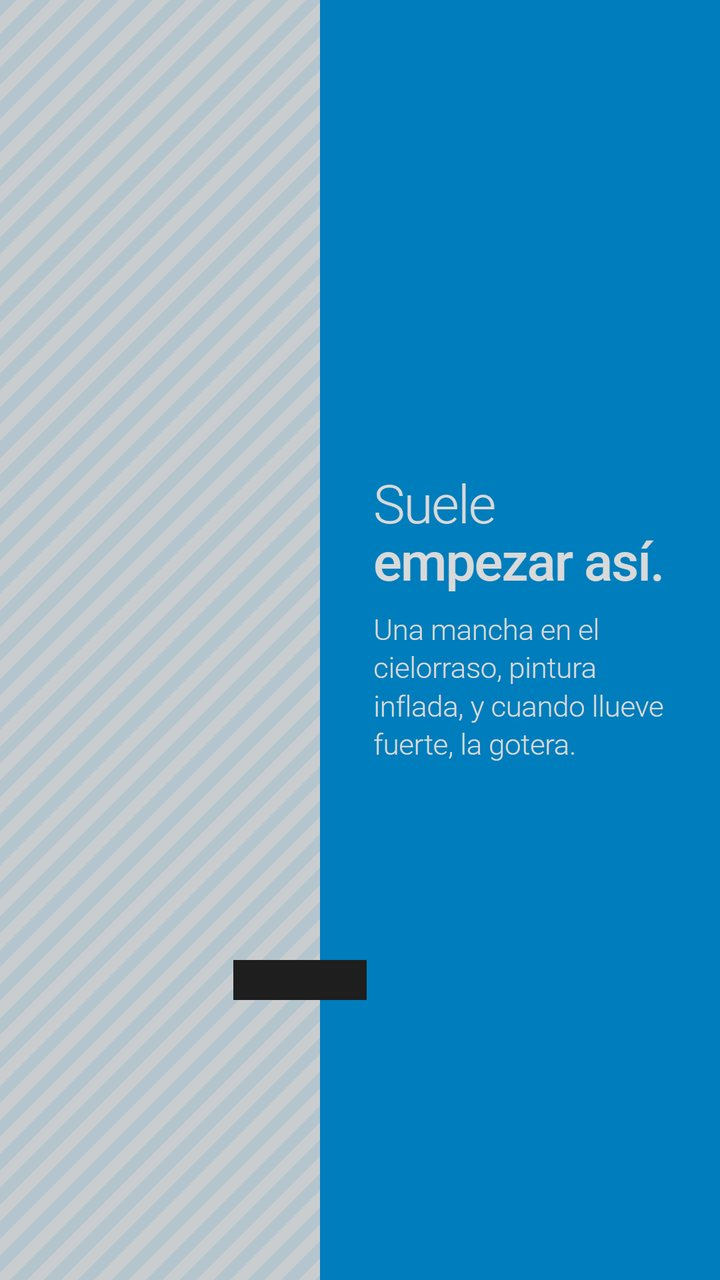
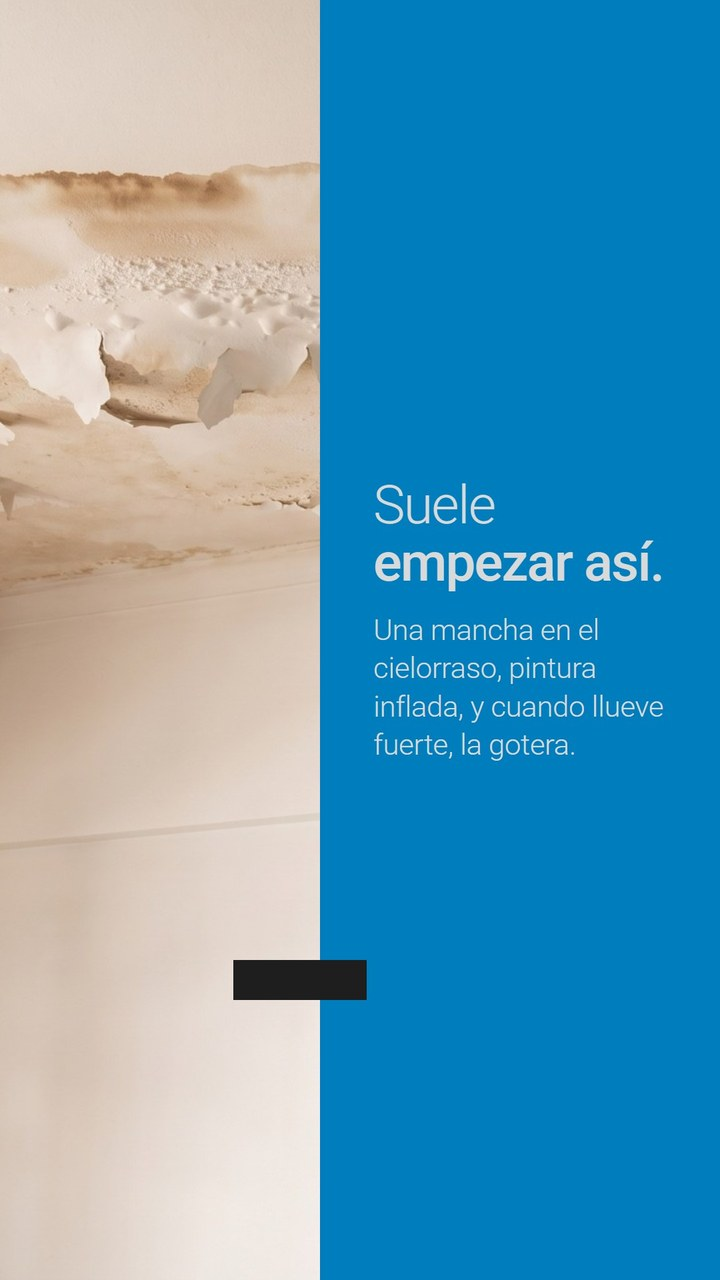
Piezas nuevas (P5, CP-08/09, CT-08b, D3-03n/04n), imágenes actualizadas y guiones.js al día

diff --git a/guiones.js b/guiones.js
@@ -294,7 +294,7 @@ window.GUIONES = {
           cta: "Escribinos por WhatsApp."
         },
         {
-          v: "B", tipo: "Recuperar en vez de cambiar",
+          v: "B", etq: "publicidad", tipo: "Recuperar en vez de cambiar",
           titulo: "No cambies el techo de chapa: recuperalo",
           hooks: [
             ["Transformación", "Antes. Después. Sin cambiar las chapas."],
@@ -510,7 +510,7 @@ window.GUIONES.pauta = {
   resumen: "Una campaña, dos conjuntos, cuatro anuncios. El paso a paso está en «Qué subir y cuándo»",
   donde: "En Instagram y Facebook, con anuncios que abren una conversación de WhatsApp: el que toca el anuncio escribe directo, no hace falta página web. Es una sola campaña de mensajes con dos conjuntos, cada uno con su zona y su presupuesto. Los anuncios se arman en el Administrador de anuncios con «usar publicación existente», no con el botón «Promocionar» de Instagram.",
   reparto: [
-    ["Particulares · el corredor", "$100.000", "Campana, Zárate, Lima, Baradero, San Pedro, Gobernador Castro, Ramallo, San Nicolás, Arrecifes, Pergamino, Salto, Chacabuco, San Antonio de Areco, Luján, Mercedes, Villa Constitución, Empalme, Arroyo Seco y Rosario: donde llega la cuadrilla. Capital queda afuera: se llevaba casi todo el presupuesto y ahí la gotera la resuelve el consorcio, que ya entra por empresas. Presupuesto total, del 29/9 al 30/10, de 8 a 24. Semana 1: V1, el video del Niño. Desde la semana 2 se suma P1."],
+    ["Particulares · el corredor", "$100.000", "Campana, Zárate, Lima, Baradero, San Pedro, Gobernador Castro, Ramallo, San Nicolás, Arrecifes, Pergamino, Salto, Chacabuco, San Antonio de Areco, Luján, Mercedes, Villa Constitución, Empalme, Arroyo Seco y Rosario: donde llega la cuadrilla. Capital queda afuera: se llevaba casi todo el presupuesto y ahí la gotera la resuelve el consorcio, que ya entra por empresas. Presupuesto total, del 30/9 al 30/10, de 8 a 24. Semana 1: V1, el video del Niño. Desde la semana 2 se suma P1."],
     ["Empresas · todo el país", "$50.000", "Presupuesto total, mismas fechas y horario. Semana 1: E1, los galpones con el Niño. Desde la semana 2 se suma V2, el video de la chapa. El botón «Es para mi casa» separa a los particulares de lejos."],
     ["Reserva", "$50.000", "Sin asignar. Se decide el día 14, con lo que haya traído cada conjunto."]
   ],
@@ -593,6 +593,46 @@ window.GUIONES.subir = {
     ["arranque", "r7"], ["r7", "suma"], ["p1", "suma"], ["v2", "suma"],
     ["suma", "r14"], ["reserva", "r14"], ["r14", "sigue"]
   ]
+};
+
+/* 29/09 · lo que sale mañana con pauta, aparte de los guiones: las dos piezas de la semana 1 y la que falta diseñar.
+   Cada pieza: {k (para la etiqueta), carril, t, tipo, b, estado, ojo, ir: [texto, a dónde] (fila o pieza ya diseñada)}. */
+/* 29/09 · la agenda de mañana a las 12, a pedido del usuario: todo lo que se sube, en orden y con sus archivos.
+   Cada paso: {h (hora), t, b, k (pieza, para la etiqueta), arch (archivos), ojo (lo que hay que mirar antes)}. */
+window.GUIONES.manana = {
+  titulo: "Mañana, con pauta",
+  resumen: "Miércoles 30/9 desde las 12 · qué se sube, en qué orden, con qué archivos. Y la que falta diseñar",
+  agenda: [
+    {h: "Antes", t: "Lo que tiene que estar listo", b: "Foto de perfil y bio cargadas. La tarjeta de Solmi en la cuenta publicitaria. El mensaje de ausencia de WhatsApp Business, de 0 a 8. El pronóstico del Niño chequeado con el Servicio Meteorológico (lo dicen V1 y la lámina 3 de E1)."},
+    {h: "12:00", k: "F3", t: "F3 · Cómo trabajamos: sin romper nada", b: "Carrusel. Se publica y se fija.", arch: "ct-01 a ct-08", ojo: "El cierre pide comentar SERVICIO: alguien tiene que contestar esos comentarios en el día."},
+    {h: "12:05", k: "F2", t: "F2 · Te prometieron que tu techo no iba a filtrar más", b: "Carrusel. Se publica y se fija.", arch: "qd-01 a qd-06"},
+    {h: "12:10", k: "F1", t: "F1 · Una empresa familiar desde 1889", b: "Carrusel. Se publica y se fija. Va última porque Instagram muestra primero el último que se fija.", arch: "qs-01 a qs-08"},
+    {h: "12:15", t: "Las destacadas «Servicios» y «Consultar»", b: "Se suben como historias y cada una se guarda en su destacada, con su portada. «Servicios»: D1, D2 y D3, en ese orden (portada d0-01). «Consultar»: D5 (portada d0-04). Para no llenar las historias del día, se pueden subir solo a «Mejores amigos»: la destacada igual la ve todo el mundo.", arch: "d1-01 a d1-05 · d2-01 a d2-05 · d3-01 a d3-05 · d5-01 a d5-04 · d0-01 y d0-04",
+      ojo: "D3, frame 3: «se trabaja con todo funcionando» es una promesa que Solmi todavía no firmó. Si no llega el sí, D3 va sin ese frame. «Ya confiaron» y «Obras» no se crean todavía: la primera espera los permisos de los clientes y la segunda no tiene material."},
+    {h: "12:30", k: "5A", t: "V1 · El Niño ya está acá", b: "Video, como reel. Es el primer anuncio de particulares.", arch: "solmi-nino-v1.mp4", ojo: "El copy está abajo, en su tarjeta."},
+    {h: "12:35", k: "E1", t: "E1 · Techos de chapa antes de las lluvias", b: "Carrusel con la portada A. Es el primer anuncio de empresas. La portada B no se publica: va solo como anuncio.", arch: "e1-01a y e1-02 a e1-08", ojo: "El copy está en la pieza, en «Carruseles ya diseñados»."},
+    {h: "12:40", k: "H1", t: "Historia H1 · La bienvenida", b: "Cinco frames. En el último va la caja de preguntas «Contame dónde tenés humedad».", arch: "h1-01 a h1-05", ojo: "Alguien tiene que contestar la caja de preguntas en el día."},
+    {h: "12:45", t: "Se prende la pauta", b: "Una campaña de mensajes a WhatsApp, del 30/9 al 30/10, de 8 a 24. Particulares, $100.000: V1 con «usar publicación existente». Empresas, $50.000: E1 portada A con «usar publicación existente» y E1 portada B subida en el Administrador. Meta revisa los anuncios antes de mostrarlos: puede tardar unas horas."}
+  ],
+  sale: [
+    {k: "5A", carril: "Particulares · el corredor · $100.000", t: "V1 · El Niño ya está acá", tipo: "Video animado · 18 s · 9:16",
+      b: "Se publica en el perfil y con esa misma publicación se arma el primer anuncio de particulares.",
+      estado: "Lista. El video está armado.",
+      ojo: "El pronóstico del Niño se chequea con el Servicio Meteorológico antes de publicarlo.",
+      copy: "El Niño ya está acá. ¿Y tu techo?\n\nEl Servicio Meteorológico Nacional lo da activo hasta el verano, y una tormenta fuerte encuentra cualquier fisura. El momento de revisar el techo es antes de que llueva, no con el balde abajo.\n\n¿Tenés humedad o una gotera? Envianos un mensaje.\n\nImpermeabilización Elástica Solmi · San Pedro, Bs. As.",
+      copyAd: "El Niño ya está acá. ¿Y tu techo?\n\nUna tormenta fuerte encuentra cualquier fisura. Revisalo antes de que llueva, no con el balde abajo. Envianos un mensaje. Impermeabilización Elástica Solmi · San Pedro.",
+      ir: ["Ver el guion (5A)", {go: "5"}]},
+    {k: "E1", carril: "Empresas · todo el país · $50.000", t: "E1 · Techos de chapa antes de las lluvias", tipo: "Carrusel · 8 láminas · 4:5 · portadas A y B",
+      b: "Se publica en el perfil y con esa misma publicación se arma el primer anuncio de empresas.",
+      estado: "Lista. Diseñada, con el copy de la publicación y el del anuncio.",
+      ojo: "Van las dos portadas, A y B, para ver cuál trae más mensajes. El pronóstico del Niño de la lámina 3 se chequea antes de publicarlo.",
+      ir: ["Ver las láminas", {pz: "X8"}]}
+  ],
+  falta: {k: "4B", carril: "Empresas · semana 2", t: "V2 · No cambies el techo de chapa: recuperalo", tipo: "Video animado · ≈15 s · guion 4B",
+    b: "Entra la semana 2 como segundo anuncio de empresas. Son los antes y después del folleto, animados: se arma sin filmar.",
+    ojo: "El video que ya está armado con el nombre «V2» es otro guion, el 5C: «Si guardás algo bajo un techo de chapa». Dice lo mismo que E1, así que empresas quedaría con dos anuncios iguales.",
+    conf: "man-v2", q: "Diseñamos el V2 del guion 4B, y el video 5C queda para historias o para reserva.",
+    ir: ["Ver el guion (4B)", {go: "4"}]}
 };
 
 window.GUIONES.videos = {
@@ -1308,8 +1348,30 @@ window.GUIONES.disenado = {
       copyAd: "«Si no gotea, está bien.» «Le pongo otra membrana y listo.» ¿Dijiste alguna?\n\nCon el Niño activo hasta el verano, el momento de arreglar el techo es antes de la próxima tormenta. Envianos un mensaje. Impermeabilización Elástica Solmi · San Pedro.",
       confirmar: "Cuatro cosas. ¿Lo de las membranas (juntan humedad por debajo, no hace falta sacarlas) y lo de la chapa se puede decir así? ¿El producto se aplica con el techo húmedo? Por eso salió el «con sol» de la frase 4. El pronóstico del Niño de la lámina 7 se vuelve a chequear la semana que sale. Y es de las que van con pauta: el reparto le da a particulares un solo anuncio por vez, así que va P1 o P2, no los dos juntos."},
 
+    /* 29/09 · P5, el anuncio directo de particulares para techos en general, con tres portadas para probar en la pauta.
+       Diseñado con el sistema de E1 y P2 (carrusel-solmi-empresas/particulares.html). Portada y lámina 3 con
+       imágenes de Nano Banana (ia-gotera-balde e ia-cielorraso-mancha), generadas por el usuario el 29/09. */
+    {k: "X28", etq: "publicidad", tipo: "Carrusel · particulares · A/B/C de portada", titulo: "La solución a tus goteras, sin romper el techo",
+      para: "La dueña de casa con goteras, cualquier techo", formato: "8 láminas · 4:5 · tres portadas", cierre: "Envianos un mensaje",
+      labCopy: "El copy de la publicación",
+      laminas: [
+        {img: "p5-01a", t: "Portada A · La solución a tus goteras, sin romper el techo.", b: "Imagen (IA): la gotera cae del cielorraso manchado a un balde"},
+        {img: "p5-01b", t: "Portada B · ¿Te arreglaron la gotera y volvió?", b: "Misma imagen"},
+        {img: "p5-01c", t: "Portada C · Para frenar una gotera no hace falta romper el techo.", b: "Misma imagen"},
+        {img: "p5-02", t: "Membrana, pintura, parche: todo tapa por arriba.", b: "Solo texto, fondo azul"},
+        {img: "p5-03", t: "Y el agua busca otro camino.", b: "En la próxima tormenta, la mancha vuelve. · Imagen (IA): cielorraso con mancha de humedad"},
+        {img: "p5-04", t: "Nosotros vamos por dentro.", b: "El producto entra en el techo como el agua. · Imagen: la foto de la portada de Víctor"},
+        {img: "p5-05", t: "Adentro se hace un gel elástico.", b: "Y sella el techo por dentro. · Imagen: video A 0:15, la cuchara que levanta el gel (real)"},
+        {img: "p5-06", t: "Sin romper nada.", b: "Sin albañiles, sin polvo, sin membrana encima. En losa, terraza, chapa o membrana vieja."},
+        {img: "p5-07", t: "Una terraza con membranas viejas. Antes y después.", b: "Folleto 2018 (real), en chico, como archivo: está a 336 px"},
+        {img: "p5-08", t: "¿Dónde tenés la gotera?", b: "Botón: envianos un mensaje"}
+      ],
+      copy: "¿Goteras en el techo? Membrana, pintura o parche tapan por arriba, y el agua busca otro camino.\n\nNosotros vamos por dentro: el producto entra en el techo como el agua y adentro se hace un gel elástico que lo sella. Sin romper nada: sin albañiles, sin polvo, sin membrana encima. En losa, terraza, chapa o membrana vieja.\n\n¿Dónde tenés la gotera? Envianos un mensaje.\n\nImpermeabilización Elástica Solmi · San Pedro, Bs. As.",
+      copyAd: "Goteras en el techo, sin romper nada.\n\nEl producto entra como el agua y adentro se hace un gel elástico que sella el techo. Losa, terraza, chapa o membrana vieja.\n\nEnvianos un mensaje. Impermeabilización Elástica Solmi · San Pedro.",
+      confirmar: "Tres portadas, A, B y C, para probar cuál trae más mensajes: se cambia solo la portada. Para probarlas, los anuncios se arman subiendo las láminas, no con «usar publicación existente». ⬜ ¿Reemplaza a P3 y P4? Dicen parecido. ⬜ ¿Entra el día 14 en lugar de P2 o de X3? ⬜ La foto original de la terraza del folleto 2018, si la tienen."},
+
     {k: "X2", etq: "publicaciones", tipo: "Carrusel · fijado", titulo: "Cómo trabajamos: sin romper nada",
-      para: "Las dos estrategias", de: "F3", formato: "8 láminas · 4:5", cierre: "Comentá SERVICIO y te enviamos toda la info",
+      para: "Las dos estrategias", de: "F3", formato: "8 láminas · 4:5", cierre: "Envianos un mensaje",
       labCopy: "El copy de la publicación",
       laminas: [
         {img: "ct-01", t: "Así es como arreglamos tu techo sin romper nada", b: "Ilustración 3D de la casa con la terraza rajada. Abajo: deslizá →"},
@@ -1319,26 +1381,28 @@ window.GUIONES.disenado = {
         {img: "ct-05", t: "4 · Adentro se transforma en gel", b: "Y el agua ya no moja"},
         {img: "ct-06", t: "Lo de siempre vs. Solmi", b: "Cuatro filas: romper el techo / membrana encima / pintura que se gasta / albañiles, polvo y ruido"},
         {img: "ct-07", t: "¿Dónde se aplica?", b: "Techos y terrazas, techos de chapa, membranas viejas, piletas, tanques de agua y cañerías"},
-        {img: "ct-08", t: "¿Tenés humedad en el techo?", b: "Comentá SERVICIO y te enviamos toda la info. solmi.com.ar · San Pedro, Bs. As."}
+        {img: "ct-08b", t: "¿Tenés humedad en el techo?", b: "Envianos un mensaje. solmi.com.ar · San Pedro, Bs. As. (29/09: antes decía «Comentá SERVICIO y te enviamos toda la info»)"}
       ],
-      copy: "Así arreglamos un techo con humedad, sin romper nada.\n\n1. Visita diagnóstico: vamos, revisamos el techo y encontramos por dónde entra el agua.\n2. Aplicamos el producto con rodillo. Sin albañiles, sin polvo, sin ruido.\n3. El producto recorre el mismo camino que el agua.\n4. Adentro se transforma en gel, y el agua ya no moja.\n\nNo es una membrana encima ni una pintura que se gasta: va por dentro. Sirve en techos y terrazas, techos de chapa, techos con membranas viejas, piletas de natación, tanques de agua y cañerías.\n\n¿Tenés humedad en el techo? Comentá SERVICIO y te mandamos toda la info por mensaje.\n\nImpermeabilización Elástica Solmi · San Pedro, Bs. As.",
+      copy: "Así arreglamos un techo con humedad, sin romper nada.\n\n1. Visita diagnóstico: vamos, revisamos el techo y encontramos por dónde entra el agua.\n2. Aplicamos el producto con rodillo. Sin albañiles, sin polvo, sin ruido.\n3. El producto recorre el mismo camino que el agua.\n4. Adentro se transforma en gel, y el agua ya no moja.\n\nNo es una membrana encima ni una pintura que se gasta: va por dentro. Sirve en techos y terrazas, techos de chapa, techos con membranas viejas, piletas de natación, tanques de agua y cañerías.\n\n¿Tenés humedad en el techo? Envianos un mensaje.\n\nImpermeabilización Elástica Solmi · San Pedro, Bs. As.",
       confirmar: "La lámina 6 compara con «lo de siempre» y promete «resiste granizo y tránsito»: ¿lo firman así o lo bajamos? Y el cierre pide comentar SERVICIO: eso solo funciona si alguien contesta esos comentarios el mismo día. ¿Quién los contesta?"},
 
     {k: "X3", etq: "publicidad", tipo: "Carrusel · particulares · chapa", titulo: "El mismo techo, dos finales distintos",
-      para: "La dueña de casa con techo de chapa", de: "E2", formato: "7 láminas · 4:5", cierre: "Comentá o envianos un mensaje",
+      /* 29/09 · pasa a particulares y baja de 7 a 5 láminas, a pedido del usuario: afuera cp-03, cp-05 y cp-06 (el
+         «después» hecho con IA y las frases que prometían: «listas para muchos años más», «futuras degradaciones»).
+         Entra cp-08, la obra real del folleto 2013 (techo 1), y cp-09 es el cierre de cp-07 con «Envianos un mensaje».
+         Las dos nuevas salen de carrusel-solmi-empresas/x3-arreglo.html. */
+      para: "La dueña de casa con techo de chapa", de: "E2", formato: "5 láminas · 4:5", cierre: "Envianos un mensaje",
       labCopy: "El copy de la publicación",
       laminas: [
         {img: "cp-01", t: "El mismo techo. Dos finales distintos.", b: "La casa partida al medio: a la izquierda «sin nuestro servicio», con lluvia y óxido; a la derecha, «con nuestro servicio». Deslizá y compará"},
         {img: "cp-02", t: "Sin nuestro servicio · Empieza con un punto de óxido", b: "En tornillos y solapes, donde nadie mira"},
-        {img: "cp-03", t: "Sin nuestro servicio · Cada lluvia lo hace avanzar", b: "Perfora la chapa, mancha las paredes y el agua termina adentro de tu casa"},
         {img: "cp-04", t: "Con nuestro servicio · Frenamos el óxido, sellamos y plastificamos", b: "Sin cambiar las chapas y sin molestias de obra"},
-        {img: "cp-05", t: "Con nuestro servicio · La lluvia llega. Y se va.", b: "Las chapas quedan protegidas de futuras degradaciones"},
-        {img: "cp-06", t: "Con nuestro servicio · Tu techo, recuperado", b: "Las mismas chapas, protegidas y listas para muchos años más"},
-        {img: "cp-07", t: "¿Tu techo ya muestra óxido?", b: "Frenalo antes de que llegue adentro. Te asesoramos sin compromiso"}
+        {img: "cp-08", t: "Esto no es una ilustración.", b: "Un techo real, recuperado sin cambiar las chapas. · Antes y después: folleto 2013, techo 1 (foto real, no IA)"},
+        {img: "cp-09", t: "¿Tu techo ya muestra óxido?", b: "Frenalo antes de que llegue adentro. Te asesoramos sin compromiso. Botón: envianos un mensaje"}
       ],
-      copy: "El mismo techo de chapa, dos finales distintos.\n\nUno empieza con un punto de óxido en los tornillos y los solapes, donde nadie mira. Cada lluvia lo hace avanzar: perfora la chapa, mancha las paredes y el agua termina adentro de tu casa.\n\nEl otro: frenamos el óxido, sellamos y plastificamos. Sin cambiar las chapas y sin molestias de obra. La lluvia llega y se va, y el techo queda con las mismas chapas, protegidas.\n\n¿El tuyo ya muestra óxido? Frenalo antes de que llegue adentro. Comentá o escribinos y te asesoramos, sin compromiso.\n\nImpermeabilización Elástica Solmi · San Pedro, Bs. As.",
-      copyAd: "¿Tu techo de chapa ya tiene óxido?\n\nEmpieza en los tornillos y los solapes, donde nadie mira, y cada lluvia lo hace avanzar hasta que el agua entra.\n\nSe frena, se sella y se plastifica: las mismas chapas, sin cambiar el techo y sin obra. Escribinos y te asesoramos, sin compromiso. Solmi · San Pedro.",
-      confirmar: "Esta pieza no estaba en el tablero: es un ángulo nuevo, el «sin / con». La colgamos de E2, que dice lo mismo (recuperar la chapa sin cambiarla), pero la casa que se ve es de particulares, no un galpón: ¿la dejamos en particulares? Y la etiquetamos «Publicidad» porque es la que mejor entra en frío: entraría como tercera candidata de las semanas 3 y 4 de particulares, en lugar de P2, sin plata extra. ¿Va?"},
+      copy: "El mismo techo de chapa, dos finales distintos.\n\nUno empieza con un punto de óxido en los tornillos y los solapes, donde nadie mira, y cada lluvia lo hace avanzar hasta que el agua termina adentro de tu casa.\n\nEl otro: frenamos el óxido, sellamos y plastificamos. Sin cambiar las chapas y sin molestias de obra.\n\n¿El tuyo ya muestra óxido? Frenalo antes de que llegue adentro. Envianos un mensaje y te asesoramos, sin compromiso.\n\nImpermeabilización Elástica Solmi · San Pedro, Bs. As.",
+      copyAd: "¿Tu techo de chapa ya tiene óxido?\n\nEmpieza en los tornillos y los solapes, donde nadie mira, y cada lluvia lo hace avanzar hasta que el agua entra.\n\nSe frena, se sella y se plastifica: las mismas chapas, sin cambiar el techo y sin obra. Envianos un mensaje y te asesoramos, sin compromiso. Solmi · San Pedro.",
+      confirmar: "Ahora va en particulares, con 5 láminas: salieron el «después» hecho con IA y las frases que prometían, y entró una obra real del folleto. Es candidata al anuncio de particulares del día 14, en lugar de P2. ⬜ Antes de pautarla: ¿cuántos de sus trabajos en casas son de chapa? Si son pocos, va como publicación, sin plata. ⬜ La obra real es un galpón: ¿tienen un antes y después de chapa en una casa?"},
 
     {k: "X4", etq: "publicaciones", tipo: "Historia · destacada «Ya confiaron»", titulo: "Los que ya confiaron",
       para: "El que busca el nombre antes de llamar", de: "D4", formato: "7 frames · 9:16", vertical: true,
@@ -1425,7 +1489,7 @@ window.GUIONES.disenado = {
     {"k":"X21","etq":"publicaciones","tipo":"Destacadas · portadas","titulo":"Portadas de las destacadas","para":"El que entra al perfil","formato":"4 frames · 9:16","vertical":true,"cierre":"—","labCopy":"Los textos de cada frame, para copiar","laminas":[{"img":"d0-01","t":"Portada «Servicios»","b":""},{"img":"d0-02","t":"Portada «Ya confiaron»","b":""},{"img":"d0-03","t":"Portada «Obras»","b":""},{"img":"d0-04","t":"Portada «Consultar»","b":""}],"copy":"Se recortan a un círculo chico: entra un color y un signo, nada más. Azul y gris alternados, en el orden del perfil. El nombre de abajo es solo para ubicarlas: en el círculo no se ve.","confirmar":"Se recortan a un círculo chico: entra un color y un signo, nada más. Azul y gris alternados, en el orden del perfil. El nombre de abajo es solo para ubicarlas: en el círculo no se ve."},
     {"k":"X22","etq":"publicaciones","tipo":"Historia · destacada","titulo":"1 de 3 · Qué hacemos","para":"El que entra al perfil","de":"D1","formato":"5 frames · 9:16","vertical":true,"cierre":"Contanos qué te pasa.","labCopy":"Los textos de cada frame, para copiar","laminas":[{"img":"d1-01","t":"Si entra agua, lo arreglamos sin romperlo.","b":""},{"img":"d1-02","t":"Techos y terrazas.","b":"El producto entra como el agua y sella por dentro. · Imagen: Aplicador con rodillo sobre la chapa · traje blanco, casco azul"},{"img":"d1-03","t":"Techos de chapa.","b":"Se recuperan sin cambiar una sola chapa. · Imagen: Folleto 2013 p. 10 · techo 2, después (falta, va el recuadro rayado)"},{"img":"d1-04","t":"Membranas viejas.","b":"No hace falta sacarlas: se repara la última y se protege. · Imagen: Folleto 2018 p. 4 · membranas recuperadas (falta, va el recuadro rayado)"},{"img":"d1-05","t":"Contanos qué te pasa.","b":"","st":"Link · wa.me/5491159547352?text=Hola, quiero consultar por un techo"}],"copy":"Si entra agua, lo arreglamos sin romperlo.\nTechos y terrazas. — El producto entra como el agua y sella por dentro.\nTechos de chapa. — Se recuperan sin cambiar una sola chapa.\nMembranas viejas. — No hace falta sacarlas: se repara la última y se protege.\nContanos qué te pasa.","confirmar":"⬜ ¿La cuenta queda en techos, terrazas y chapa, o suma paredes, tanques y piletas?"},
     {"k":"X23","etq":"publicaciones","tipo":"Historia · destacada","titulo":"2 de 3 · Si tenés una casa","para":"El que entra al perfil","de":"D2","formato":"5 frames · 9:16","vertical":true,"cierre":"Mandanos una foto del techo.","labCopy":"Los textos de cada frame, para copiar","laminas":[{"img":"d2-01","t":"Si tenés una casa. Y una mancha en el techo.","b":""},{"img":"d2-02","t":"Suele empezar así.","b":"Una mancha en el cielorraso, pintura inflada, y cuando llueve fuerte, la gotera. · Imagen: Cielorraso con mancha de humedad y pintura inflada (falta, va el recuadro rayado)"},{"img":"d2-03","t":"Y casi siempre ya lo arreglaste una vez.","b":""},{"img":"d2-04","t":"Esta vez no hay que romper nada.","b":"Sin sacar la membrana vieja, sin escombro, sin ruido de obra. · Imagen: Terraza de una casa, terminada, después de la lluvia (falta, va el recuadro rayado)"},{"img":"d2-05","t":"Mandanos una foto del techo.","b":"Con eso ya te podemos decir algo.","st":"Link · wa.me/5491159547352?text=Tengo humedad en mi casa y les mando una foto"}],"copy":"Si tenés una casa. Y una mancha en el techo.\nSuele empezar así. — Una mancha en el cielorraso, pintura inflada, y cuando llueve fuerte, la gotera.\nY casi siempre ya lo arreglaste una vez.\nEsta vez no hay que romper nada. — Sin sacar la membrana vieja, sin escombro, sin ruido de obra.\nMandanos una foto del techo. — Con eso ya te podemos decir algo.","confirmar":"⬜ ¿Con una foto alcanza para decir algo, o siempre hay que ir a ver? Cambia el cierre de las tres."},
-    {"k":"X24","etq":"publicaciones","tipo":"Historia · destacada","titulo":"3 de 3 · Si tenés un galpón, una planta o un edificio","para":"El que entra al perfil","de":"D3","formato":"5 frames · 9:16","vertical":true,"cierre":"Envianos un mensaje y lo vemos.","labCopy":"Los textos de cada frame, para copiar","laminas":[{"img":"d3-01","t":"Si tenés un galpón, una planta o un edificio.","b":""},{"img":"d3-02","t":"Acá el problema no es el techo.","b":"Es parar la producción, o cortar el paso en el edificio."},{"img":"d3-03","t":"Se trabaja con todo funcionando.","b":"Sin andamios, sin escombro, sin sacar nada de lugar. · Imagen: Folleto 2013 p. 4 · cementera, trabajo en altura (falta, va el recuadro rayado)"},{"img":"d3-04","t":"Y la chapa se recupera.","b":"Se repara, se frena el óxido y se protege. Sin chapas nuevas. · Imagen: Folleto 2018 p. 4 · techo 3, después (falta, va el recuadro rayado)"},{"img":"d3-05","t":"Envianos un mensaje y lo vemos.","b":"","st":"Link · wa.me/5491159547352?text=Tengo una filtración en un galpón / una planta / un edificio"}],"copy":"Si tenés un galpón, una planta o un edificio.\nAcá el problema no es el techo. — Es parar la producción, o cortar el paso en el edificio.\nSe trabaja con todo funcionando. — Sin andamios, sin escombro, sin sacar nada de lugar.\nY la chapa se recupera. — Se repara, se frena el óxido y se protege. Sin chapas nuevas.\nEnvianos un mensaje y lo vemos.","confirmar":"🔴 «Se trabaja con todo funcionando» es la promesa más fuerte de todas: si no la firman tal cual, el frame 3 se reescribe."},
+    {"k":"X24","etq":"publicaciones","tipo":"Historia · destacada","titulo":"3 de 3 · Si tenés un galpón, una planta o un edificio","para":"El que entra al perfil","de":"D3","formato":"5 frames · 9:16","vertical":true,"cierre":"Envianos un mensaje y lo vemos.","labCopy":"Los textos de cada frame, para copiar","laminas":[{"img":"d3-01","t":"Si tenés un galpón, una planta o un edificio.","b":""},{"img":"d3-02","t":"Acá el problema no es el techo.","b":"Es parar la producción, o cortar el paso en el edificio."},{"img":"d3-03n","t":"Y la chapa se recupera.","b":"Se repara, se frena el óxido y se protege. Sin chapas nuevas. · Imagen: Folleto 2018 p. 4 · techo 3, después (falta, va el recuadro rayado)"},{"img":"d3-04n","t":"Envianos un mensaje y lo vemos.","b":"","st":"Link · wa.me/5491159547352?text=Tengo una filtración en un galpón / una planta / un edificio"}],"copy":"Si tenés un galpón, una planta o un edificio.\nAcá el problema no es el techo. — Es parar la producción, o cortar el paso en el edificio.\nSe trabaja con todo funcionando. — Sin andamios, sin escombro, sin sacar nada de lugar.\nY la chapa se recupera. — Se repara, se frena el óxido y se protege. Sin chapas nuevas.\nEnvianos un mensaje y lo vemos.","confirmar":"🔴 «Se trabaja con todo funcionando» es la promesa más fuerte de todas: si no la firman tal cual, el frame 3 se reescribe."},
     {"k":"X25","etq":"publicaciones","tipo":"Historia · destacada","titulo":"el cierre","para":"El que entra al perfil","de":"D4","formato":"1 frames · 9:16","vertical":true,"cierre":"¿Te lo recomendaron?","labCopy":"Los textos de cada frame, para copiar","laminas":[{"img":"d4-01","t":"¿Te lo recomendaron?","b":"Envianos un mensaje y contanos qué te pasa.","st":"Link · wa.me/5491159547352?text=Me los recomendaron y quiero consultar"}],"copy":"¿Te lo recomendaron? — Envianos un mensaje y contanos qué te pasa.","confirmar":"🔴 Si la pieza de Víctor nombra clientes, antes hace falta el permiso de cada uno · el cierre de Víctor publica el número y va con este, que lleva el link."},
     {"k":"X26","etq":"publicaciones","tipo":"Historia · destacada","titulo":"Cómo pedir un presupuesto","para":"El que entra al perfil","de":"D5","formato":"4 frames · 9:16","vertical":true,"cierre":"Envianos un mensaje.","labCopy":"Los textos de cada frame, para copiar","laminas":[{"img":"d5-01","t":"Tres cosas y te contestamos.","b":""},{"img":"d5-02","t":"Una foto de lejos y una de cerca.","b":"De lejos se ve el techo entero; de cerca, la mancha o el óxido. · Imagen: Techo de chapa de una casa, sacado de lejos con el celular (falta, va el recuadro rayado) · Imagen: Primer plano: óxido en tornillos y uniones de la chapa"},{"img":"d5-03","t":"En qué ciudad estás.","b":"Trabajamos en todo el país."},{"img":"d5-04","t":"Envianos un mensaje.","b":"Con las fotos y tu ciudad.","st":"Link · wa.me/5491159547352?text=Hola, les mando las fotos del techo"}],"copy":"Tres cosas y te contestamos.\nUna foto de lejos y una de cerca. — De lejos se ve el techo entero; de cerca, la mancha o el óxido.\nEn qué ciudad estás. — Trabajamos en todo el país.\nEnvianos un mensaje. — Con las fotos y tu ciudad.","confirmar":"⬜ ¿Qué necesitan para contestar algo sin ir a ver? Estas tres son una propuesta · no se promete plazo de respuesta."}
   ]
